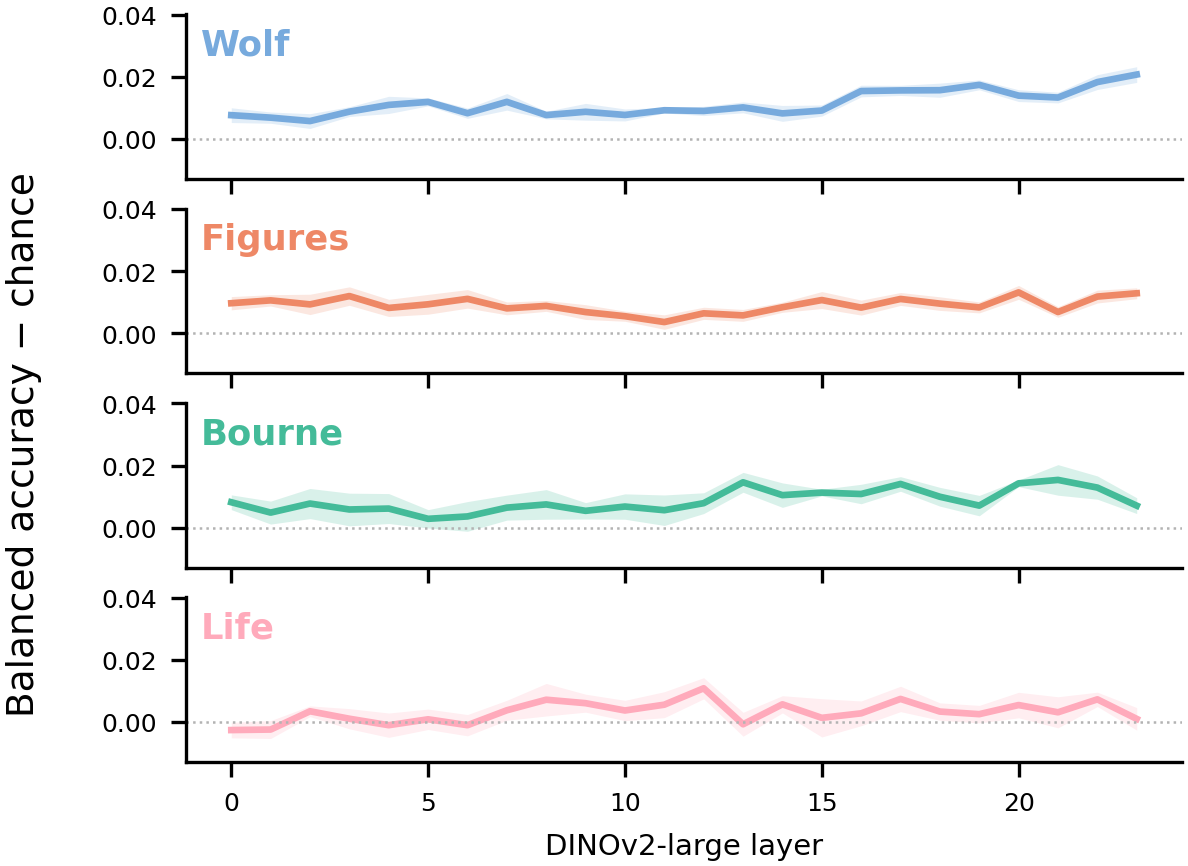
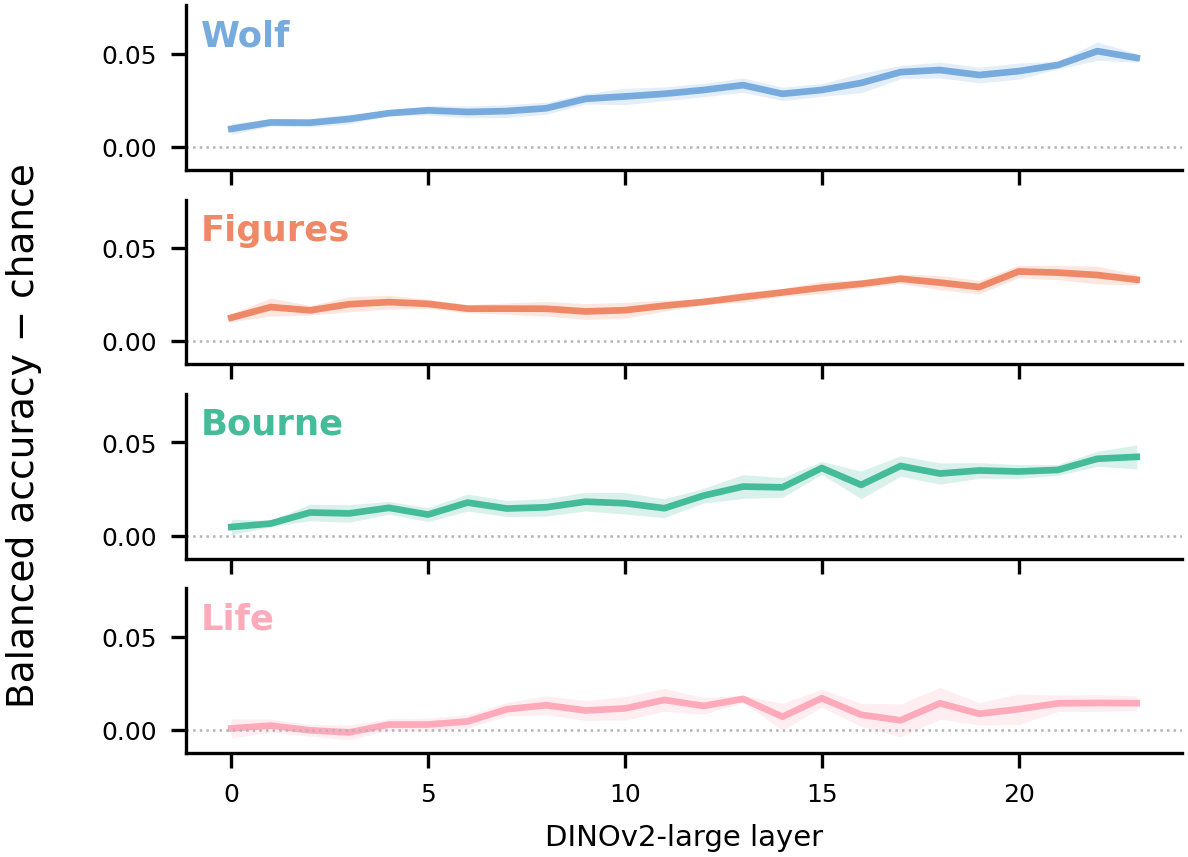
SI figures: refresh copies from current outputs; Figure S7 caption describes the best-lag classifier, mean and standard error, and per-stimulus n
Re-exported with script/export_si_figures.py --copy; S6, S7, S8C, S9, S11,
S14 and S15 differed from the current outputs. The S7 caption now states
that the Friends classifier is applied at each participant's best Friends
lag, that lines are means with standard-error bands, the n per stimulus,
that the x-axis is the layer index, and that per-participant significance
is in Figure 5D.

diff --git a/docs/supplementary/README.md b/docs/supplementary/README.md
@@ -129,7 +129,7 @@ The comparison that stands is therefore the timing floor, which is matched to th
 **Panel C — Video (DINOv2-large)**
 ![Per-layer video-model decoding strips for the four Movie10 films (Wolf of Wall Street, Hidden Figures, The Bourne Supremacy, Life)](figures/S07_decoding_depth_strips_C.png)
 
-These strips show per-layer decoding accuracy (balanced accuracy minus chance) for the cross-stimulus analysis, in which a Friends-trained classifier is applied without retraining to held-out stimuli. Each panel is one transformer model, and each line within a panel is one held-out stimulus, aggregated across subjects (shaded band). The stimulus set differs by modality: the audio model (A) covers Movie10 and Petit Prince in both languages; the text model (B) adds Harry Potter; the video model (C) covers the four Movie10 films. Cross-stimulus decoding is modest in magnitude relative to within-Friends decoding, consistent with the main cross-stimulus results.
+These strips show per-layer decoding accuracy (balanced accuracy minus chance) for the cross-stimulus analysis. For each participant and layer, a classifier fitted to all Friends time points at that participant's best Friends lag is applied without retraining to a held-out stimulus at the same lag. Each panel is one transformer model, and each row is one held-out stimulus: the line is the mean across participants and the shaded band the standard error (n = 6 for Movie10; n = 5 for Harry Potter and Petit Prince, which sub-04 did not complete). The x-axis is the layer index (0 = first block). The stimulus set differs by modality: the audio model (A) covers Movie10 and Petit Prince in both languages; the text model (B) adds Harry Potter; the video model (C) covers the four Movie10 films separately. A mean line above zero does not mean every participant was significant; per-participant significance at the peak layer is counted in Figure 5D.
 
 ---
 
